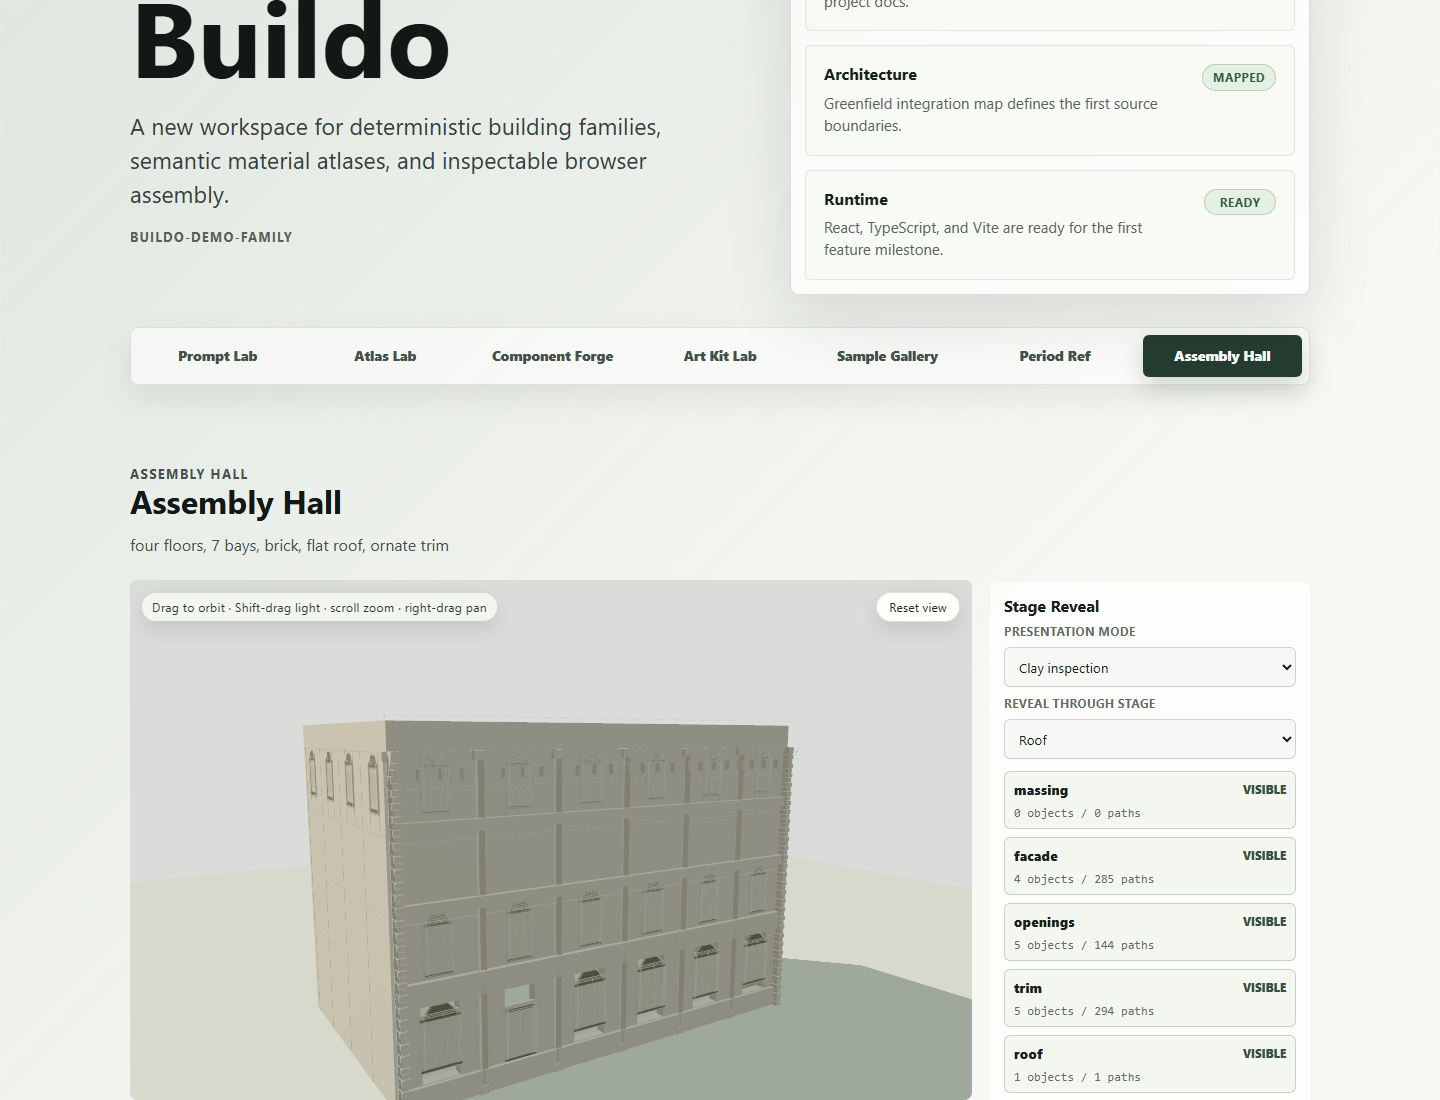
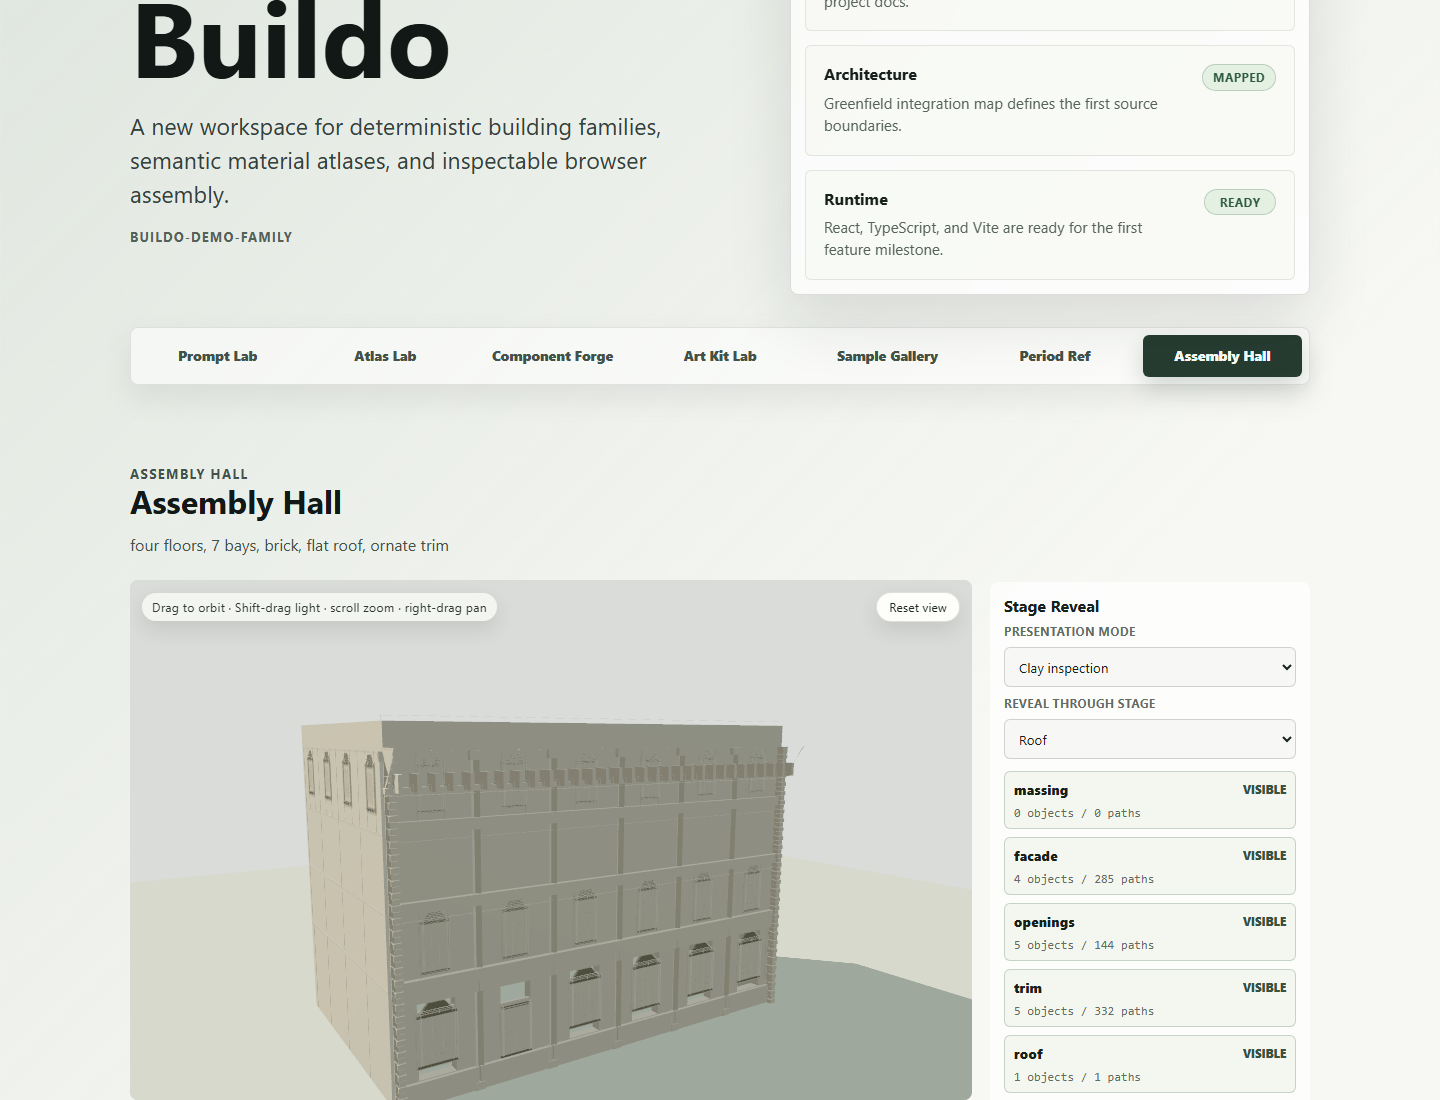
Raise cornice crown weight for photo-driven V2 silhouette.
Deepen layered/restrained cornice profiles, add projection scaling, enlarge brackets and fascia, and lift style-pack cornice height so the skyline overhangs ~0.7 m+ past the front face without relying on forensic raking light.

Changed region(s): [[0.1875, 0.68, 0.5312, 1.0], [0.4688, 0.68, 0.5625, 0.8964], [0.3438, 0.8036, 0.375, 0.8345]]

diff --git a/src/features/building-family/compiler/profiledTrimGeometry.ts b/src/features/building-family/compiler/profiledTrimGeometry.ts
@@ -7,6 +7,7 @@ import {
   late19cPilasterProfile,
   late19cRoofCapProfile,
   getProfileDefinition,
+  scaleProfileProjection,
   scaleProfileToHeight
 } from "./profileLibrary";
 import { densifyProfile, horizontalMoldingFromProfile, sweepProfileToBoxPrimitives } from "./profileSweepGeometry";
@@ -71,40 +72,63 @@ export function buildCorniceProfilePrimitives(
   recipe: ComponentRecipe
 ): PrimitiveGeometry[] {
   const width = recipe.dimensionsM.width;
-  const height = Math.max(0.55, recipe.dimensionsM.height);
+  const height = Math.max(0.7, recipe.dimensionsM.height);
   const totalHeight = spec.massing.floorHeightsM.reduce((total, value) => total + value, 0);
   // Profile id is the style switch — no per-style compiler branches (G7).
   const profileDef =
     (recipe.profileRecipeId ? getProfileDefinition(recipe.profileRecipeId) : undefined) ??
     late19cCorniceProfile;
-  const profile = densifyProfile(scaleProfileToHeight(profileDef, height), 2);
+  const isRestrained = profileDef.id.includes("restrained");
+  const projectionScale = rangeValue(recipe, "projectionScale", isRestrained ? 1.1 : 1.32);
+  const profile = densifyProfile(
+    scaleProfileProjection(scaleProfileToHeight(profileDef, height), projectionScale),
+    3
+  );
   const maxD = Math.max(...profile.points.map((point) => point.d));
   const frontZ = frontFacadeExteriorZM(spec);
   // Anchor on the exterior face; sweep `d` outward so crown is clay-visible.
-  const center: Vec3 = [0, totalHeight - height / 2, frontZ];
+  // Sit the band so its top meets the roof line and most mass hangs as a crown.
+  const center: Vec3 = [0, totalHeight - height * 0.42, frontZ];
   const primitives = horizontalMoldingFromProfile({
     profile,
     center,
-    widthM: width + 0.12,
+    widthM: width + 0.2,
     facadeSign: FRONT_FACADE_SIGN
   });
 
-  // Restrained profiles skip heavy brackets (shallower read).
-  const isRestrained = profileDef.id.includes("restrained");
-  if (!isRestrained) {
-    const bracketSpacing = rangeValue(recipe, "bracketSpacingM", 0.95);
-    const bracketCount = Math.max(3, Math.floor(width / bracketSpacing));
-    for (let index = 0; index < bracketCount; index += 1) {
-      const t = bracketCount === 1 ? 0.5 : index / (bracketCount - 1);
-      const x = -width / 2 + 0.28 + t * (width - 0.56);
+  // Brackets under the crown (layered always; restrained gets a lighter row for clay read).
+  const bracketSpacing = rangeValue(recipe, "bracketSpacingM", isRestrained ? 1.15 : 0.8);
+  const bracketCount = Math.max(isRestrained ? 3 : 4, Math.floor(width / bracketSpacing));
+  const bracketDepth = maxD * (isRestrained ? 0.42 : 0.55);
+  const bracketHeight = height * (isRestrained ? 0.28 : 0.38);
+  const bracketWidth = isRestrained ? 0.14 : 0.2;
+  for (let index = 0; index < bracketCount; index += 1) {
+    const t = bracketCount === 1 ? 0.5 : index / (bracketCount - 1);
+    const x = -width / 2 + 0.32 + t * (width - 0.64);
+    primitives.push(
+      buildBoxPrimitive({
+        center: [x, center[1] - height * 0.22, frontZ - maxD * 0.42],
+        size: [bracketWidth, bracketHeight, bracketDepth]
+      })
+    );
+    if (!isRestrained) {
+      // Secondary step under each bracket — multi-layer shadow under the crown.
       primitives.push(
         buildBoxPrimitive({
-          center: [x, center[1] - height * 0.12, frontZ - maxD * 0.35],
-          size: [0.14, height * 0.32, maxD * 0.45]
+          center: [x, center[1] - height * 0.34, frontZ - maxD * 0.28],
+          size: [bracketWidth * 1.25, bracketHeight * 0.35, bracketDepth * 0.55]
         })
       );
     }
   }
+
+  // Continuous fascia bar under the profile — sells a dark crown band even in soft light.
+  primitives.push(
+    buildBoxPrimitive({
+      center: [0, center[1] - height * 0.38, frontZ - maxD * 0.18],
+      size: [width + 0.28, height * 0.12, Math.max(0.18, maxD * 0.28)]
+    })
+  );
 
   return primitives;
 }

diff --git a/src/features/building-family/compiler/profileLibrary.ts b/src/features/building-family/compiler/profileLibrary.ts
@@ -29,42 +29,46 @@ function validateProfile(profile: ProfileDefinition): void {
   }
 }
 
-/** Late-19c layered cornice section (u up from bed, d out from facade). */
+/**
+ * Late-19c layered cornice section (u up from bed, d out from facade).
+ * V2: deeper crown so clay silhouette sells before openings are inspected.
+ */
 export const late19cCorniceProfile: ProfileDefinition = {
   id: "profile.cornice.late19c.layered",
   label: "Late 19c layered cornice",
   points: [
-    { u: 0.0, d: 0.08 },
-    { u: 0.06, d: 0.1 },
-    { u: 0.1, d: 0.18 },
-    { u: 0.22, d: 0.2 },
-    { u: 0.28, d: 0.32 },
-    { u: 0.4, d: 0.34 },
-    { u: 0.48, d: 0.42 },
-    { u: 0.58, d: 0.48 },
-    { u: 0.68, d: 0.55 },
-    { u: 0.78, d: 0.62 },
-    { u: 0.88, d: 0.58 },
-    { u: 1.0, d: 0.7 }
+    { u: 0.0, d: 0.12 },
+    { u: 0.06, d: 0.18 },
+    { u: 0.12, d: 0.28 },
+    { u: 0.22, d: 0.34 },
+    { u: 0.3, d: 0.48 },
+    { u: 0.42, d: 0.55 },
+    { u: 0.52, d: 0.68 },
+    { u: 0.62, d: 0.78 },
+    { u: 0.72, d: 0.9 },
+    { u: 0.82, d: 1.0 },
+    { u: 0.92, d: 0.95 },
+    { u: 1.0, d: 1.08 }
   ]
 };
 
 /**
  * Shallower alternate cornice (G7 stress) — same expand path, different profile id.
  * Selected via recipe.profileRecipeId / seed, not a compiler style fork.
+ * Still deeper than pre-V2 so restrained seed keeps a readable crown.
  */
 export const late19cRestrainedCorniceProfile: ProfileDefinition = {
   id: "profile.cornice.late19c.restrained",
   label: "Late 19c restrained cornice",
   points: [
-    { u: 0.0, d: 0.05 },
-    { u: 0.08, d: 0.08 },
-    { u: 0.18, d: 0.12 },
-    { u: 0.32, d: 0.16 },
-    { u: 0.48, d: 0.2 },
-    { u: 0.65, d: 0.22 },
-    { u: 0.82, d: 0.24 },
-    { u: 1.0, d: 0.26 }
+    { u: 0.0, d: 0.08 },
+    { u: 0.08, d: 0.12 },
+    { u: 0.18, d: 0.18 },
+    { u: 0.32, d: 0.24 },
+    { u: 0.48, d: 0.3 },
+    { u: 0.65, d: 0.34 },
+    { u: 0.82, d: 0.38 },
+    { u: 1.0, d: 0.42 }
   ]
 };
 
@@ -167,6 +171,23 @@ export function scaleProfileToHeight(profile: ProfileDefinition, heightM: number
     points: profile.points.map((point) => ({
       u: (point.u - u0) * scale,
       d: point.d * Math.min(1.35, 0.85 + scale * 0.15)
+    }))
+  };
+}
+
+/** Scale only outward projection `d` (V2 crown weight without changing height span). */
+export function scaleProfileProjection(
+  profile: ProfileDefinition,
+  projectionScale: number
+): ProfileDefinition {
+  validateProfile(profile);
+  const scale = Math.max(0.05, projectionScale);
+  return {
+    ...profile,
+    id: `${profile.id}.proj-${scale.toFixed(2)}`,
+    points: profile.points.map((point) => ({
+      u: point.u,
+      d: point.d * scale
     }))
   };
 }

diff --git a/src/features/building-family/components/profiledTrimBuilder.ts b/src/features/building-family/components/profiledTrimBuilder.ts
@@ -56,14 +56,15 @@ export function buildProfiledVerticalTrimRecipe(spec: BuildingFamilySpec) {
 export function buildCorniceRecipe(spec: BuildingFamilySpec) {
   const profileRecipeId = resolveCorniceProfileRecipeId(spec);
   const restrained = profileRecipeId.includes("restrained");
+  // V2: taller band + deeper recipe depth so crown reads before openings are inspected.
   return makeComponentRecipe({
     id: `recipe.cornice.${spec.selectedFamilies.cornice}.primary`,
     kind: "profileSweep",
     role: "cornice",
     dimensionsM: {
       width: spec.massing.widthM,
-      height: spec.facade.corniceHeightM * (restrained ? 0.85 : 1),
-      depth: restrained ? 0.42 : 0.62
+      height: spec.facade.corniceHeightM * (restrained ? 0.95 : 1.12),
+      depth: restrained ? 0.62 : 1.05
     },
     atlasSlotIds: ["cornice.primary"],
     uvBehavior: "cap-repeat-cap",
@@ -71,9 +72,11 @@ export function buildCorniceRecipe(spec: BuildingFamilySpec) {
     attachmentPlane: "facade.front",
     profileRecipeId,
     parameterRanges: {
-      projectionM: restrained ? { min: 0.12, max: 0.32 } : { min: 0.24, max: 0.68 },
-      bracketSpacingM: { min: 0.6, max: 1.4 },
-      crownHeightM: restrained ? { min: 0.1, max: 0.22 } : { min: 0.18, max: 0.4 }
+      projectionM: restrained ? { min: 0.22, max: 0.48 } : { min: 0.55, max: 1.15 },
+      bracketSpacingM: restrained ? { min: 0.85, max: 1.5 } : { min: 0.55, max: 1.05 },
+      crownHeightM: restrained ? { min: 0.16, max: 0.3 } : { min: 0.28, max: 0.55 },
+      /** Extra outward scale applied after height fit (V2 amplitude). */
+      projectionScale: restrained ? { min: 1.05, max: 1.2 } : { min: 1.2, max: 1.45 }
     }
   });
 }

diff --git a/src/features/building-family/tests/profiledTrimGeometry.test.ts b/src/features/building-family/tests/profiledTrimGeometry.test.ts
@@ -120,4 +120,23 @@ describe("profiled trim geometry", () => {
     expect(beltMinZ).toBeLessThan(frontZ - 0.05);
     expect(plinthMinZ).toBeLessThan(frontZ - 0.05);
   });
+
+  it("builds a heavy layered crown that overhangs far enough for V2 silhouette (Marx target)", () => {
+    const spec = {
+      ...fixtureSpec(),
+      facade: { ...fixtureSpec().facade, corniceHeightM: 1.7 },
+      selectedFamilies: { ...fixtureSpec().selectedFamilies, cornice: "bracketed-metal" as const }
+    };
+    const recipe = {
+      ...buildCorniceRecipe(spec),
+      profileRecipeId: "profile.cornice.late19c.layered"
+    };
+    const cornice = buildCorniceProfilePrimitives(spec, recipe);
+    const frontZ = -spec.massing.depthM / 2;
+    const corniceMinZ = Math.min(...cornice.map((primitive) => primitive.bounds.min[2]));
+    const overhang = frontZ - corniceMinZ;
+    // ~0.7 m+ outward so skyline reads without forensic lighting.
+    expect(overhang).toBeGreaterThanOrEqual(0.7);
+    expect(cornice.length).toBeGreaterThanOrEqual(8);
+  });
 });

diff --git a/src/features/building-family/tests/profileLibraryG7.test.ts b/src/features/building-family/tests/profileLibraryG7.test.ts
@@ -86,6 +86,8 @@ describe("G7 alternate cornice profile", () => {
     expect(profileMaxProjectionM(late19cRestrainedCorniceProfile)).toBeLessThan(
       profileMaxProjectionM(late19cCorniceProfile)
     );
+    // V2: layered crown is a deep overhang, not a thin ribbon.
+    expect(profileMaxProjectionM(late19cCorniceProfile)).toBeGreaterThanOrEqual(1.0);
     expect(restrained.length).toBeLessThan(layered.length);
   });
 });

diff --git a/docs/ref/comparisons/2026-07-12-first-pass/FINDINGS.md b/docs/ref/comparisons/2026-07-12-first-pass/FINDINGS.md
@@ -35,7 +35,7 @@ Silhouette + trim layering were **fail** because front moldings used `facadeSign
 
 ## Ranked geometry follow-ups (photo-driven)
 
-### P0 — Cornice crown readable in clay — **done 2026-07-13**
+### P0 — Cornice placement outward — **done 2026-07-13** (amplitude raised in V2)
 
 **Root cause:** Front cornice/belt/plinth/pilaster/spandrel/quoin placement swept profile `d` **into** the building (+Z) instead of outward (-Z).  
 **Fix:** `profiledTrimGeometry.ts` anchors on `frontFacadeExteriorZM` and uses `facadeSign: -1` for front moldings; proud boxes move to -Z.  
@@ -87,10 +87,16 @@ Silhouette + trim layering were **fail** because front moldings used `facadeSign
 
 Stage metrics from page capture (illustrative): facade 4 objects, openings 5, trim present — after P0/P1 clay readability improved for crown and opening throat.
 
+### V2 — Cornice crown weight — **done 2026-07-13**
+
+**Plan:** photo-driven V2  
+**Fix:** Deeper layered profile (max d ~1.08 m), projectionScale, taller corniceHeightM, larger brackets + continuous fascia bar.  
+**Exit:** Layered crown overhang ≥ ~0.7 m past front face.
+
 ## Next actions
 
-1. ~~P0 cornice outward placement~~ **landed**  
-2. ~~P1 punched opening orientation + throat~~ **landed**  
-3. ~~P2 / V1 commercial base band~~ **landed**  
-4. **V2** cornice crown weight (next — `docs/plans/photo-driven-visual-fidelity.md`)  
-5. Optional: Shift-drag raking frames in capture script  
+1. ~~P0–P1 placement~~ **landed**  
+2. ~~V1 commercial base~~ **landed**  
+3. ~~V2 cornice crown weight~~ **landed**  
+4. **V3** punched opening amplitude (next)  
+

diff --git a/docs/plans/photo-driven-visual-fidelity.md b/docs/plans/photo-driven-visual-fidelity.md
@@ -1,6 +1,6 @@
 # Photo-Driven Visual Fidelity Packets
 
-**Status:** active — V1 (commercial base) landed 2026-07-13; next V2  
+**Status:** active — V1–V2 landed 2026-07-13; next V3  
 **Date:** 2026-07-13  
 **Parent tracks:** G1–G8 geometry quality (exited), kit-grammar roadmap, Period Ref Lab  
 **Primary refs:** `docs/ref/` + `docs/research/period-reference/` via `#room=periodRef`  
@@ -82,11 +82,11 @@ npm.cmd run typecheck
 
 Clay: ground band visibly taller than floor above at default camera (no zoom).
 
-### V2 — Cornice crown weight
+### V2 — Cornice crown weight — **done 2026-07-13**
 
 **Gap:** P0 made cornice present; amplitude still light vs Marx.  
-**Levers:** Profile `d` scale, corniceHeightM, bracket size—not new mesh libraries.  
-**Exit:** 3/4 clay skyline reads “has a cornice” before openings are inspected.
+**Levers:** Deeper layered/restrained profiles, `scaleProfileProjection`, taller corniceHeightM, larger brackets + fascia bar.  
+**Exit:** 3/4 clay skyline reads “has a cornice” before openings are inspected (≥ ~0.7 m overhang on layered).
 
 ### V3 — Punched opening amplitude
 
@@ -130,6 +130,7 @@ Re-score Marx + Vanderbilt packets; archive captures; link from kit-grammar Phas
 | 2026-07-12 | Period Ref Lab + first-pass FINDINGS (P0–P4 backlog) |
 | 2026-07-13 | P0 outward trim, P1 opening orientation |
 | 2026-07-13 | This plan; **V1 commercial base** landed (5.6 m ground vs ~3.5 m body) |
+| 2026-07-13 | **V2 cornice crown weight** landed (deeper profile + brackets + fascia) |
 
 ---
 

diff --git a/docs/ref/README.md b/docs/ref/README.md
@@ -50,8 +50,8 @@ Clay vs photo scores and ranked geometry follow-ups:
 - Capture script: `node scripts/capture-period-compare.mjs`
 
 **Photo-driven plan:** `docs/plans/photo-driven-visual-fidelity.md` (packets V1–V6).  
-**Landed:** P0 outward trim · P1 opening orientation · **V1 commercial base**.  
-**Next:** V2 cornice crown weight.
+**Landed:** P0 · P1 · **V1 commercial base** · **V2 cornice crown**.  
+**Next:** V3 punched opening amplitude.
 
 ## Related
 
